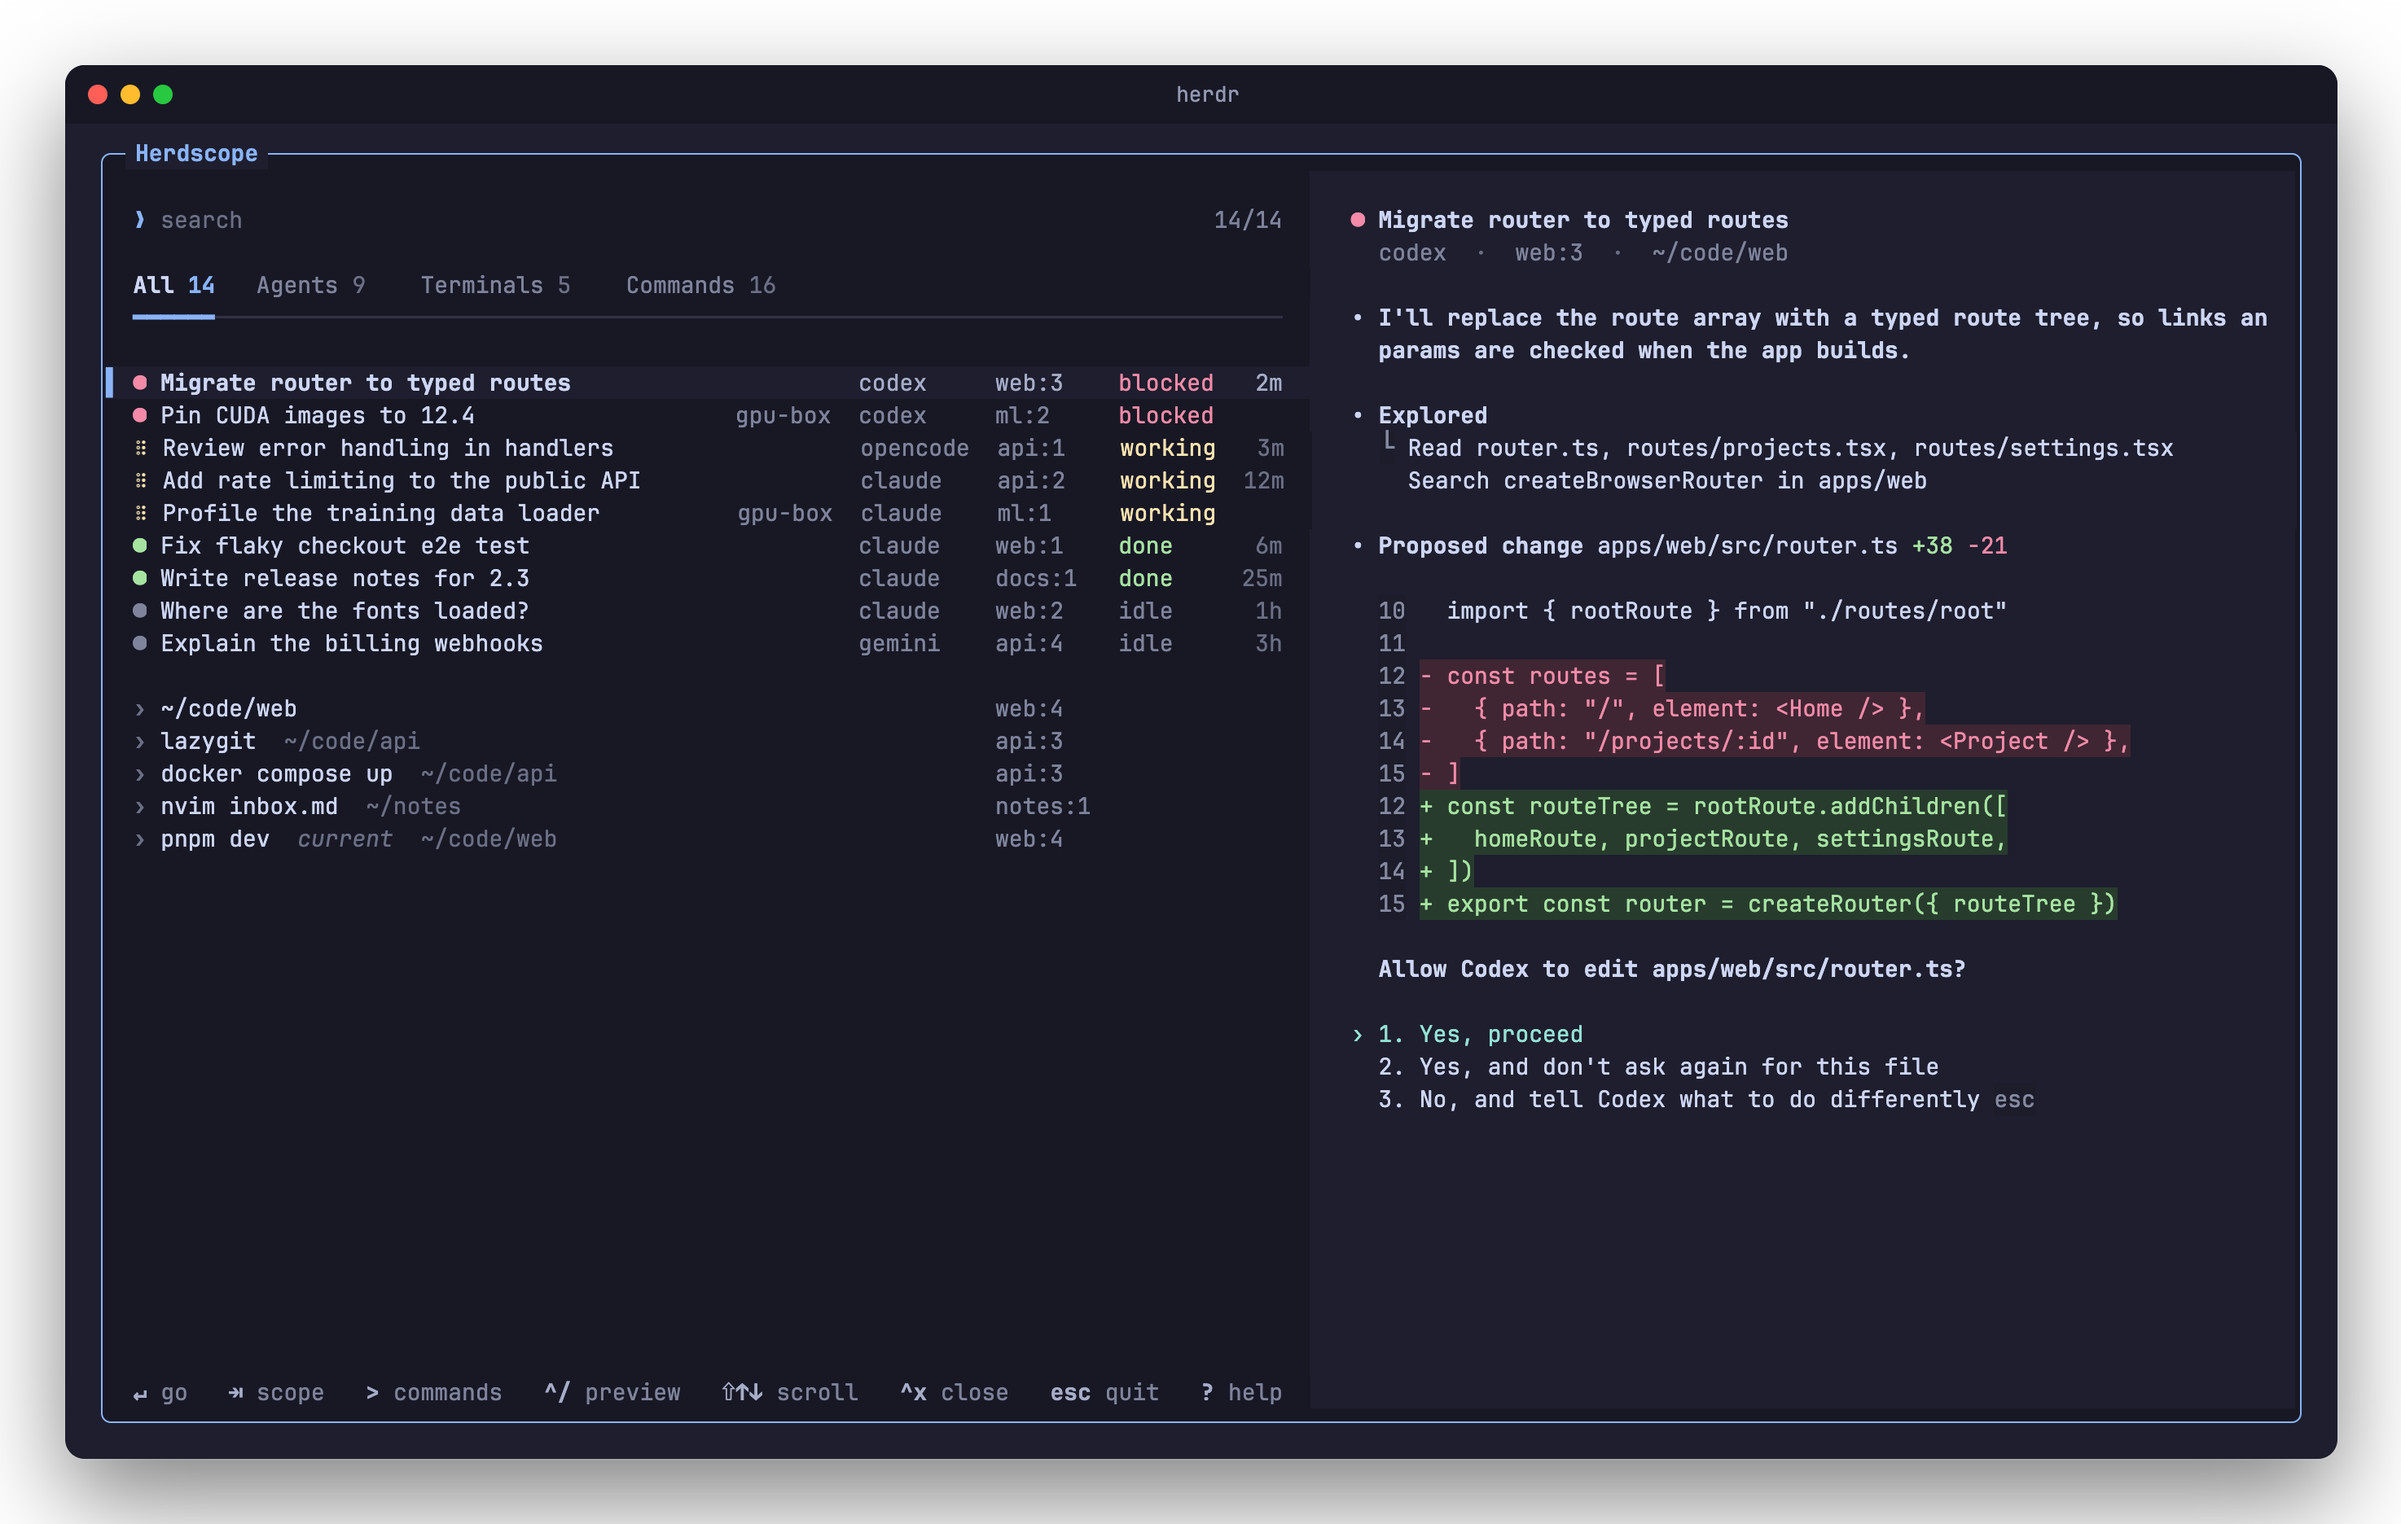
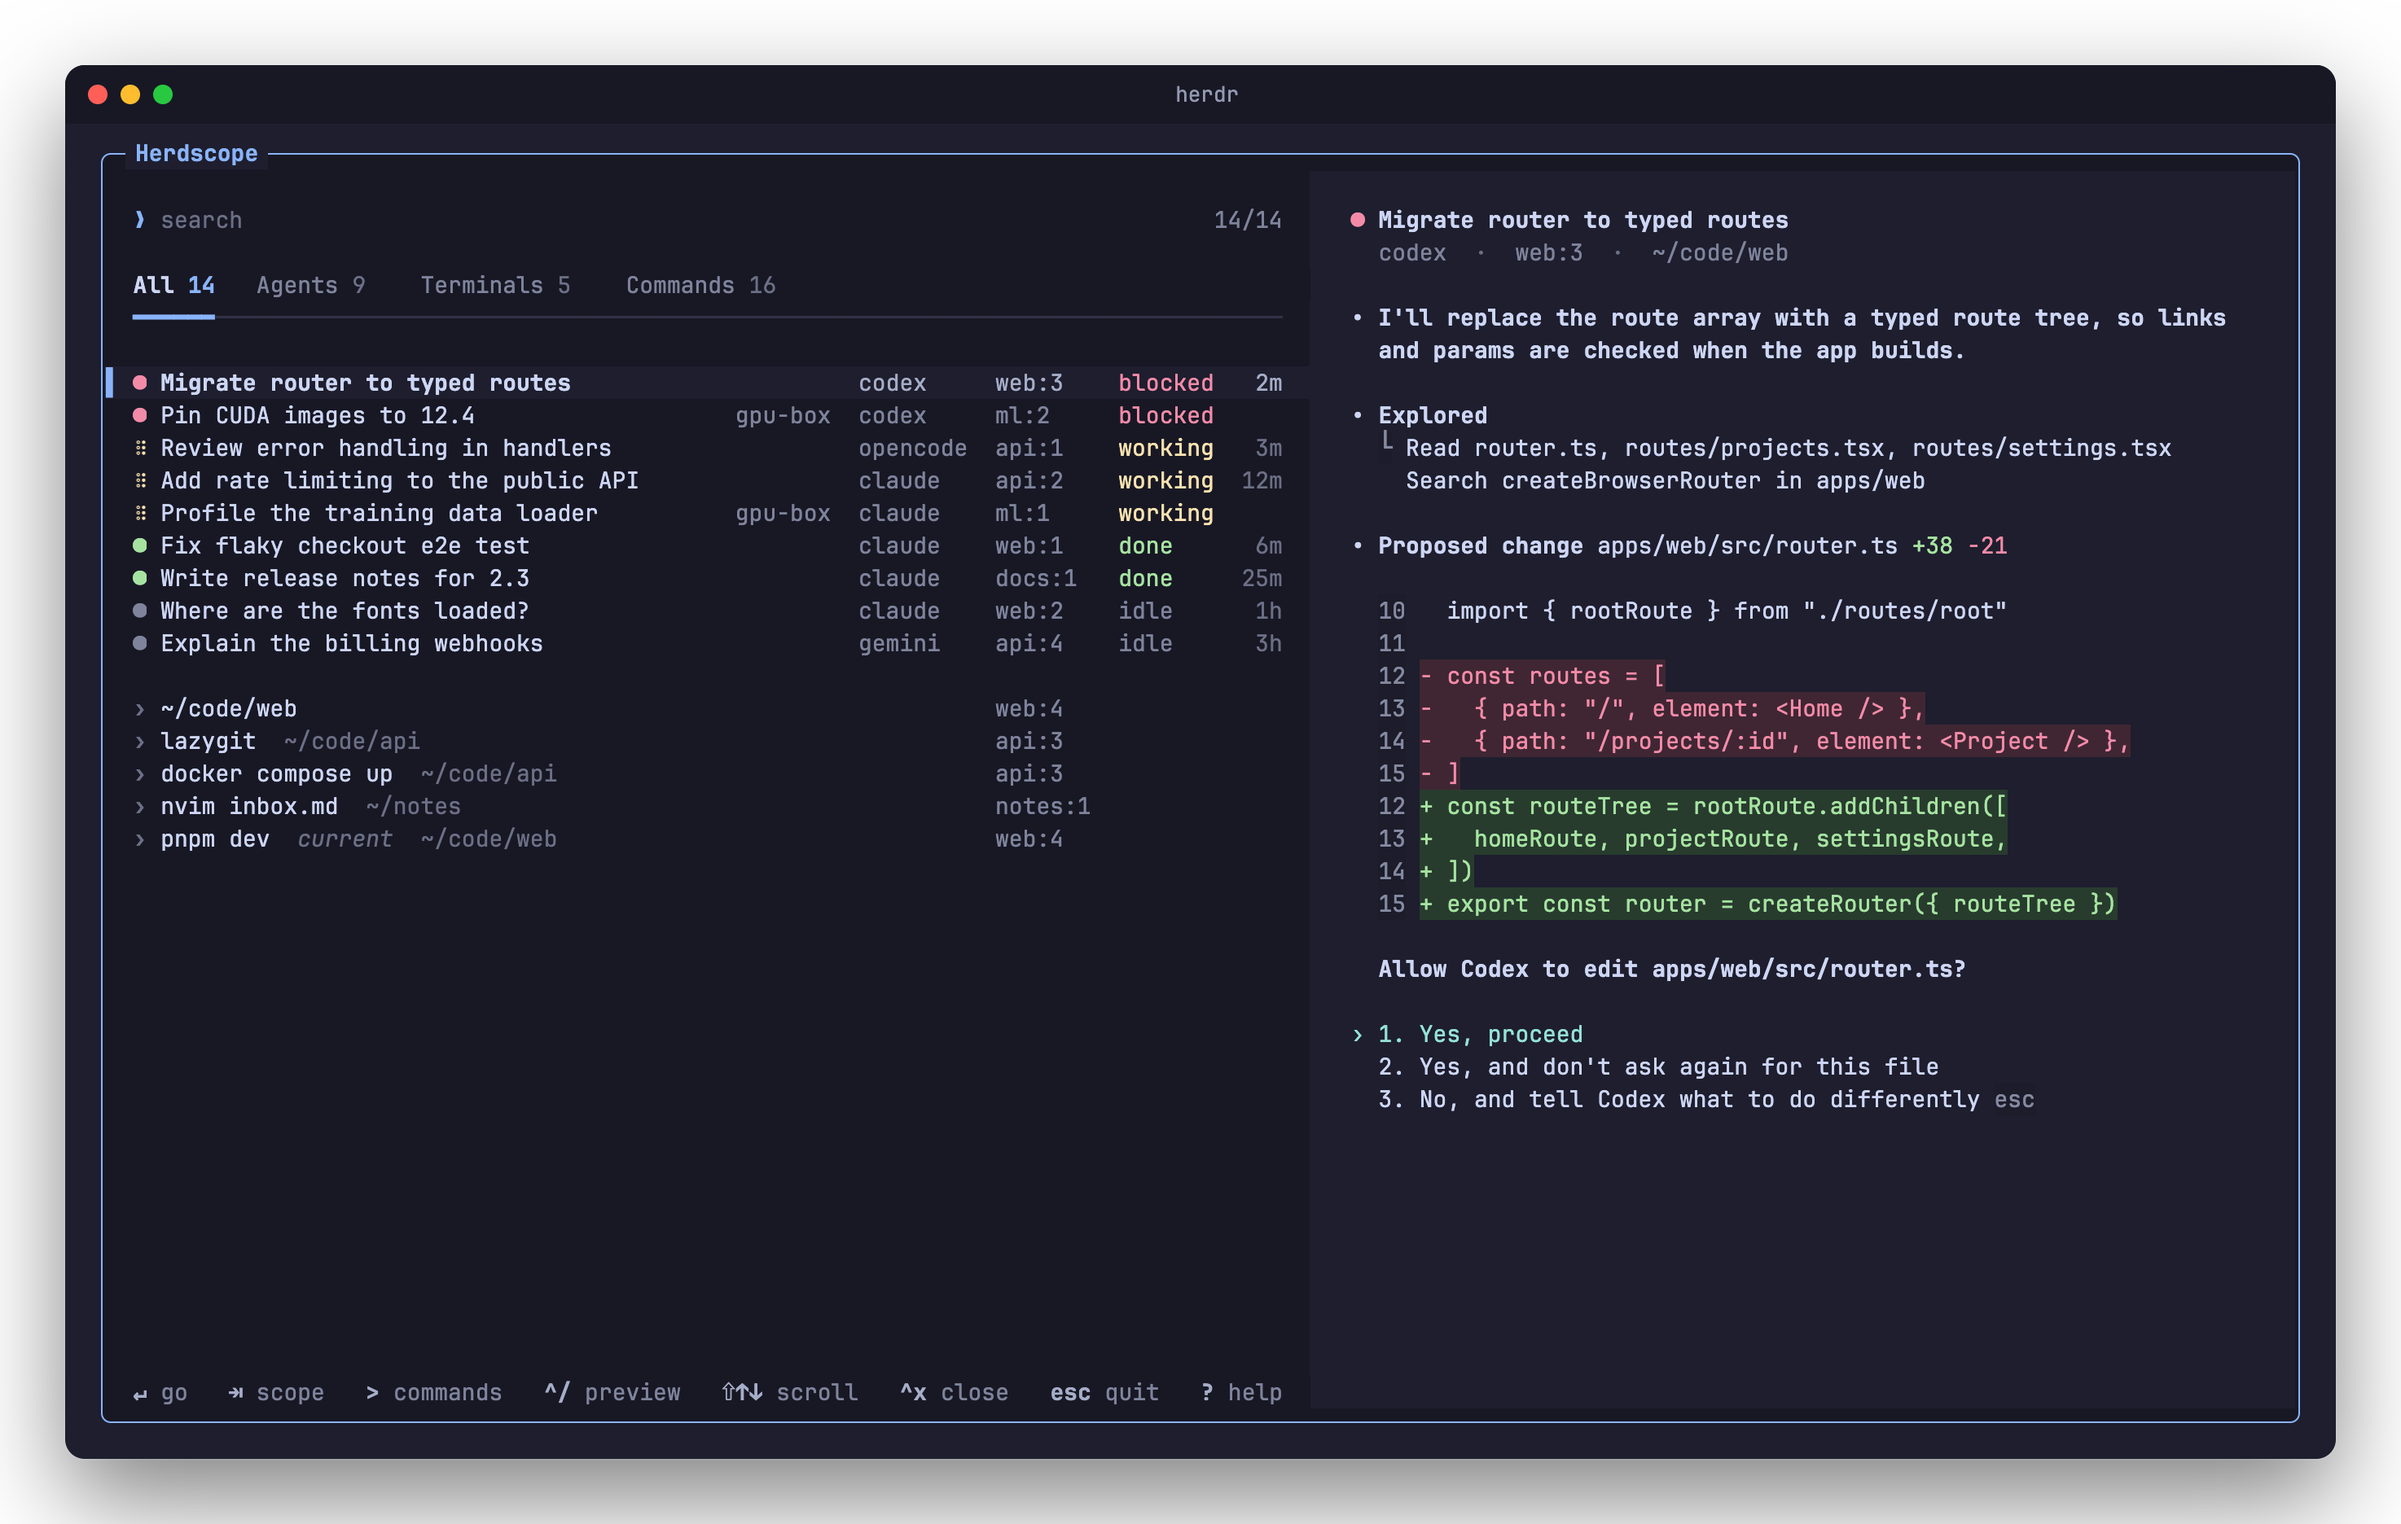
chore: show the blocked agent's question in the social preview, and keep fallback glyphs in their cells

diff --git a/tools/social_preview.py b/tools/social_preview.py
@@ -1,7 +1,8 @@
 """Render assets/social-preview.png: the 1280x640 image GitHub shows when the repo is linked.
 
-The name and tagline above the real picker's agent list, drawn with screenshot.py's demo data,
-large enough to read as a link-preview thumbnail. Needs what screenshot.py needs.
+The name and tagline above the real picker, drawn with screenshot.py's demo data: the ranked
+agents, and beside them, the blocked one's question. Only that much, so it still reads as a
+link-preview thumbnail. Needs what screenshot.py needs.
 
     python3 tools/social_preview.py [output.png]
 """
@@ -11,40 +12,45 @@ import subprocess
 import sys
 import tempfile
 from pathlib import Path
-from unittest.mock import patch
 
 sys.path.insert(0, str(Path(__file__).resolve().parent))
 
 import screenshot
-from screenshot import CHROME, NOW, Canvas, Style, View, app, commands, render, theme
+from screenshot import BOLD, CHROME, CYAN, DIM, GREEN, RED, RESET, diff, theme
 
-# Enough rows for the prompt, the tabs and every agent; the terminals below them are cut off.
-ROWS, COLUMNS = 14, 86
+# Enough rows for the prompt, the tabs and every agent, the terminals below them cut off; enough
+# columns for the preview to sit beside the list (100 or more) with its longest line whole.
+ROWS, COLUMNS = 14, 130
 WIDTH, HEIGHT = 1280, 640
+# The README's preview cut to the change and Codex's question: no plan, no files read, two lines of diff.
+PREVIEW = "\n".join([
+    f"{BOLD}• Proposed change{RESET} apps/web/src/router.ts {GREEN}+38{RESET} {RED}-21{RESET}",
+    "",
+    diff(12, "-", "const routes = ["),
+    diff(12, "+", "const routeTree = rootRoute.addChildren(["),
+    "",
+    f"{BOLD}  Allow Codex to edit apps/web/src/router.ts?{RESET}",
+    "",
+    f"{CYAN}› 1. Yes, proceed{RESET}",
+    "  2. Yes, and don't ask again for this file",
+    f"  3. No, and tell Codex what to do differently {DIM}esc{RESET}",
+])  # fmt: skip
 
 
 def frame(tokens):
-    """The picker without its preview: the prompt, the tabs and the ranked list."""
-    local, panes = screenshot.entries()
-    with patch.object(commands, "installed", side_effect=lambda name: name in ("claude", "codex", "opencode")):
-        listed = panes + commands.catalog(local, {})
-    canvas, palette, view = Canvas(ROWS, COLUMNS), render.Palette(tokens), View()
-    view.preview = False
-    with app.Previewer(Style(tokens["text"], tokens["panel_bg"]), lambda entry, lines: "") as previewer:
-        render.draw(canvas, palette, view, listed, view.results(1, listed), 0.35, previewer, wall=NOW)
-    return canvas
+    return screenshot.frame(tokens, ROWS, COLUMNS, PREVIEW)
 
 
 def page(canvas, tokens):
-    """The name and tagline, then the list in Herdr's popup border, on a 1280x640 card."""
+    """The name and tagline, then the picker in Herdr's popup border, on a 1280x640 card."""
     grid = screenshot.page(canvas, tokens)
     style, body = grid.split("</style>", 1)
     return f"""{style}
 html, body {{ width: {WIDTH}px; height: {HEIGHT}px; overflow: hidden; }}
 body {{ padding: 0; box-sizing: border-box; display: flex; flex-direction: column; align-items: center;
-  justify-content: center; gap: 26px; font-size: 18px; line-height: 25px;
+  justify-content: center; gap: 26px; font-size: 14.5px; line-height: 22px;
   background: radial-gradient(ellipse at 50% 0%, #313244 0%, {tokens["panel_bg"]} 55%, #11111b 100%); }}
-.grid div, .grid span {{ height: 25px; }}
+.grid div, .grid span {{ height: 22px; }}
 .popup {{ padding-top: 20px; }}
 .window {{ box-shadow: 0 0 0 1px #ffffff1a, 0 30px 70px #00000099; }}
 header {{ text-align: center; color: {tokens["text"]};

diff --git a/tools/screenshot.py b/tools/screenshot.py
@@ -60,8 +60,8 @@ def diff(number, sign, code):
 
 
 PREVIEW = "\n".join([
-    f"{BOLD}• I'll replace the route array with a typed route tree, so links and{RESET}",
-    f"{BOLD}  params are checked when the app builds.{RESET}",
+    f"{BOLD}• I'll replace the route array with a typed route tree, so links{RESET}",
+    f"{BOLD}  and params are checked when the app builds.{RESET}",
     "",
     f"{BOLD}• Explored{RESET}",
     f"  {DIM}└{RESET} Read router.ts, routes/projects.tsx, routes/settings.tsx",
@@ -122,12 +122,13 @@ def entries():
     return local, sorted(found, key=lambda entry: inventory.rank(entry, {}))
 
 
-def frame(tokens):
+def frame(tokens, rows=ROWS, columns=COLUMNS, preview=PREVIEW):
+    """The demo session drawn on a `rows` by `columns` canvas, the selected agent's pane showing `preview`."""
     local, panes = entries()
     with patch.object(commands, "installed", side_effect=lambda name: name in ("claude", "codex", "opencode")):
         listed = panes + commands.catalog(local, {})
-    canvas, palette, view = Canvas(ROWS, COLUMNS), render.Palette(tokens), View()
-    with app.Previewer(Style(tokens["text"], tokens["panel_bg"]), lambda entry, lines: PREVIEW) as previewer:
+    canvas, palette, view = Canvas(rows, columns), render.Palette(tokens), View()
+    with app.Previewer(Style(tokens["text"], tokens["panel_bg"]), lambda entry, lines: preview) as previewer:
         for _ in range(50):
             render.draw(canvas, palette, view, listed, view.results(1, listed), 0.35, previewer, wall=NOW)
             if previewer.get(view.selected):
@@ -146,18 +147,25 @@ def page(canvas, tokens):
     text, background = tokens["text"], tokens["sidebar_bg"]
     rows = []
     for row in canvas.cells:
-        runs, current = [], None
-        for char, style in row:
+        # Each run: its style, its text, and the cells it must fill, or None when it fills them by itself.
+        # A glyph from a fallback font (the working spinner's braille) can be wider than a cell, and the
+        # browser would push the rest of its line right, so each non-ASCII glyph gets cells of its own.
+        runs = []
+        for n, (char, style) in enumerate(row):
             if not char:
                 continue  # The second cell of a wide glyph.
-            if style != current:
-                runs.append([style, []])
-                current = style
-            runs[-1][1].append(char)
+            if not char.isascii():
+                wide = n + 1 < len(row) and not row[n + 1][0]
+                runs.append([style, [char], 1 + wide])
+            elif runs and runs[-1][0] == style and runs[-1][2] is None:
+                runs[-1][1].append(char)
+            else:
+                runs.append([style, [char], None])
         spans = []
-        for style, chars in runs:
+        for style, chars, cells in runs:
             css = f"color:{color(style.fg, text)};background:{color(style.bg, background)}"
             css += ";font-weight:700" * style.bold + ";opacity:.6" * style.dim + ";font-style:italic" * style.italic
+            css += f";width:{cells}ch" * bool(cells)
             spans.append(f'<span style="{css}">{html.escape("".join(chars))}</span>')
         rows.append(f"<div>{''.join(spans)}</div>")
     accent = tokens["accent"]

diff --git a/tests/test_tools.py b/tests/test_tools.py
@@ -27,12 +27,16 @@ class ToolTests(unittest.TestCase):
         for text in ("Migrate router to typed routes", "gpu-box", "Allow Codex to edit", "Herdscope"):
             self.assertIn(text, html)
 
-    def test_social_preview_shows_every_agent_and_no_preview(self):
+    def test_social_preview_shows_every_agent_and_the_blocked_ones_question(self):
         tokens = social_preview.theme.load({"theme": {"name": "catppuccin"}})
-        html = social_preview.page(social_preview.frame(tokens), tokens)
-        for _, _, _, _, task, *_ in (*screenshot.AGENTS, *screenshot.REMOTE):
-            self.assertIn(task, html)
-        self.assertNotIn("Allow Codex to edit", html)
+        canvas = social_preview.frame(tokens)
+        text = "\n".join("".join(char for char, _ in row) for row in canvas.cells)
+        for *_, task, _, _ in screenshot.AGENTS:
+            self.assertIn(task[:16], text)  # The narrower list may shorten the longest with "…".
+        for line in ("Allow Codex to edit", "3. No, and tell Codex what to do differently esc"):
+            self.assertIn(line, text)
+        self.assertNotIn("Explored", text)  # Only the question, not the README's whole preview.
+        self.assertIn("Herdscope", social_preview.page(canvas, tokens))
 
     @unittest.skipUnless(shutil.which("fzf"), "fzf is not installed")
     def test_benchmark_ranks_panes_exactly_as_fzf_does(self):
